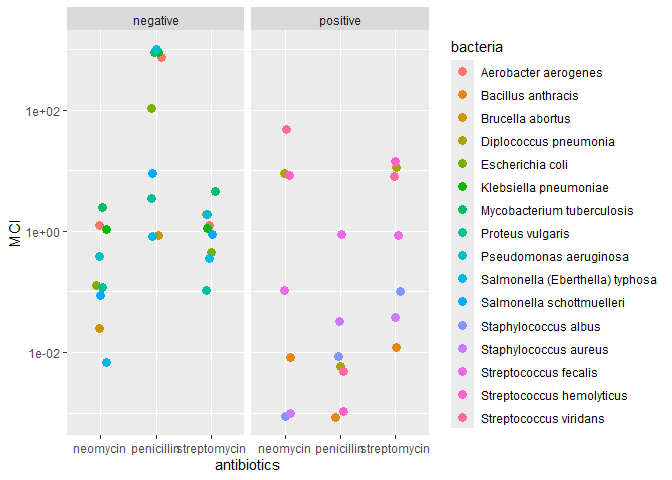
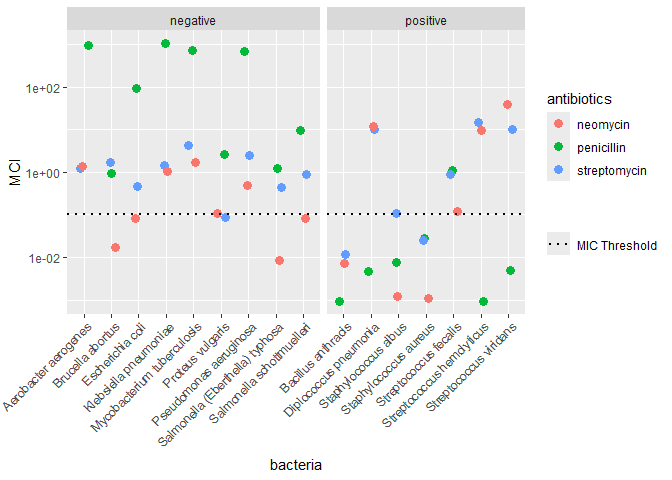
challenge 5 resubmission

diff --git a/challenges/c05-antibiotics-assignment.md b/challenges/c05-antibiotics-assignment.md
@@ -1,7 +1,7 @@
 Antibiotics
 ================
-(Your name here)
-2020-
+Swasti Jain
+4/30/25
 
 *Purpose*: Creating effective data visualizations is an *iterative*
 process; very rarely will the first graph you make be the most
@@ -157,16 +157,21 @@ is Gram positive or negative.
 
 ``` r
 # WRITE YOUR CODE HERE
-df_antibiotics_longer<- df_antibiotics %>% 
+df_antibiotics_longer <- df_antibiotics %>%
   pivot_longer(
     cols = c(penicillin, streptomycin, neomycin),
     names_to = "antibiotics",
     values_to = "MCI"
   )
 df_antibiotics_longer %>%
-    ggplot(aes(x = bacteria, y = MCI, color = gram)) +
-    geom_point(size = 2) +
-    facet_grid(~ antibiotics)
+  ggplot(aes(x = bacteria, y = MCI, color = gram, shape = antibiotics)) +
+  geom_point(size = 2) +
+  scale_y_log10() +
+  geom_hline(aes(yintercept = 0.1, linetype = "MIC Threshold"), linewidth = 1) +
+  scale_linetype_manual(name = "", values = c("MIC Threshold" = "dotted")) +
+  theme(
+    axis.text.x = element_text(angle = 45, vjust = 1, hjust = 1)
+  )
 ```
 
 ![](c05-antibiotics-assignment_files/figure-gfm/q1.1-1.png)<!-- -->
@@ -183,12 +188,17 @@ your other visuals.
 
 ``` r
 # WRITE YOUR CODE HERE
+
 df_antibiotics_longer %>%
-  
-    ggplot(aes(x = antibiotics, y = MCI, color = bacteria)) +
-    geom_jitter(size = 3, width = 0.1, height = 0.1) +
-    scale_y_log10() +  
-    facet_grid(~ gram)
+  ggplot(aes(x = bacteria, y = MCI, color = antibiotics)) +
+  geom_jitter(size = 3, width = 0.2, height = 0.1) +
+  scale_y_log10() +
+  geom_hline(aes(yintercept = 0.1, linetype = "MIC Threshold"), linewidth = 1) +
+  scale_linetype_manual(name = "", values = c("MIC Threshold" = "dotted")) +
+  facet_grid(~gram, scales = "free_x", space = "free_x") +
+  theme(
+    axis.text.x = element_text(angle = 45, hjust = 1)
+  )
 ```
 
 ![](c05-antibiotics-assignment_files/figure-gfm/q1.2-1.png)<!-- -->
@@ -204,9 +214,13 @@ your other visuals.
 
 ``` r
 # WRITE YOUR CODE HERE
+
 df_antibiotics_longer %>%
-    ggplot(aes(x = antibiotics, y = MCI, color = gram)) +
-    geom_boxplot()
+  ggplot(aes(x = antibiotics, y = MCI, color = gram)) +
+  geom_jitter(size = 3, width = 0.2, height = 0) +
+  scale_y_log10() +
+  geom_hline(aes(yintercept = 0.1, linetype = "MIC Threshold"), linewidth = 1) +
+  scale_linetype_manual(name = "", values = c("MIC Threshold" = "dotted"))
 ```
 
 ![](c05-antibiotics-assignment_files/figure-gfm/q1.3-1.png)<!-- -->
@@ -222,15 +236,13 @@ your other visuals.
 
 ``` r
 df_antibiotics_longer %>%
-    ggplot(aes(x = antibiotics, y = MCI)) +
-    geom_boxplot() +
-    scale_y_log10() +  
-    facet_grid(~gram)+
-    geom_point(
-    data = . %>% filter(bacteria %in% c( "Aerobacter aerogenes","Klebsiella pneumoniae", "Streptococcus viridans")),
-    mapping = aes(color = bacteria),
-    size = 2
-  )
+  filter(antibiotics == "penicillin") %>%
+  mutate(bacteria = fct_reorder(bacteria, MCI)) %>%
+  mutate(bacteria = fct_reorder(bacteria, gram)) %>%
+  ggplot(aes(bacteria, MCI)) +
+  geom_bar(aes(fill = gram), stat = "identity", width = .75) +
+  scale_y_log10() +
+  coord_flip()
 ```
 
 ![](c05-antibiotics-assignment_files/figure-gfm/q1.4-1.png)<!-- -->
@@ -247,10 +259,13 @@ your other visuals.
 ``` r
 # WRITE YOUR CODE HERE
 df_antibiotics_longer %>%
-    ggplot(aes(x = bacteria, y = antibiotics, fill = MCI)) +
-    geom_tile() +
-    scale_fill_viridis_c(option = "plasma", trans = "log10", direction = -1) +
-    facet_grid(~gram)
+  ggplot(aes(x = bacteria, y = antibiotics, fill = MCI)) +
+  geom_tile() +
+  geom_text(aes(label = round(MCI, 2)), color = "white", size = 2) + # Adding MCI labels
+
+  scale_fill_viridis_c(option = "plasma", trans = "log10", direction = -1) +
+  facet_grid(~gram) +
+  coord_flip()
 ```
 
 ![](c05-antibiotics-assignment_files/figure-gfm/q1.5-1.png)<!-- -->
@@ -279,20 +294,21 @@ your response here) - Which of your visuals above (1 through 5) is
 **most effective** at helping to answer this question? - (Write your
 response here) - Why? - (Write your response here)
 
-The last graph utilizes a heat mapping structure which denotes the
-intensity of the MCI on a logarithmic scale. I think this is the most
-effective at answering the variance of the three antibiotics against
-different genera and gram stain.
+Out of the 3 antibiotics, Streptomycin has the least range in Minimum
+Inhibitory Concentration (MIC). There isnt a clear distinction between
+which gram stain it is more effective for.
 
-Highlights of this graph:
+Penicillin on the other hand has the greatest range from the three
+antibiotics. However there is also a clearer distinction for gram stain.
+If the gram stain is positive, penicillin is typically effective under
+0.1 MIC dosage.
 
-- split/facet into the positive and negative gram distributions
+Neomycin has a greater range than streptomycin but no truly discernible
+distinction between MIC level and gram stain.
 
-- The color scale is inverted (the brighter the color the less MCI,
-  which is desirable)
-
-- The color scale is logarithmic which provides greater variance for the
-  smaller quantities
+The third graph shows the individual points and the gram stain. I found
+this the most helpful as it gives a big picture overview of the data
+that isn’t overwhelming.
 
 #### Guiding Question 2
 
@@ -308,29 +324,16 @@ your response here) - Which of your visuals above (1 through 5) is
 **most effective** at helping to answer this question? - (Write your
 response here) - Why? - (Write your response here)
 
-I think my second graph is most effective at helping to answer this
+I think my fourth graph is most effective at helping to answer this
 question.
 
-In this graph we can see there are striking similarities in the MCI and
-gram stain for the Diplococcus pneumoniae with many of the Strep
+This graph focuses on the use of penicillin as an antibiotic and
+arranges the bars in order of MIC dosage and gram stain. We can see that
+the diplococcus pneumoniae is categorized with many of the strep
 variants. It is possible due to the similar features such as the thick
 peptidoglycan layer in the cell walls, denoted by the gram-positive
-stain, and the similar MCI levels for the three antibiotics, the
-scientists at the time found it useful to relate the Diplococcus
-pneumoniae to a Strep variant.
-
-Highlights of this graph:
-
-- The y-axis is logarithmic which provides greater variance for the
-  smaller quantities
-
-- The points have been jittered slightly so they are all comparable
-  despite being contained in their respective antibiotic column regions.
-
-- The color scale shows the individual 16 bacteria which is helpful in
-  finding patterns between different variants.
-
-#### 
+stain, and the similar MCI levels, the scientists at the time found it
+useful to relate the Diplococcus pneumoniae to a Strep variant.
 
 # References
 
